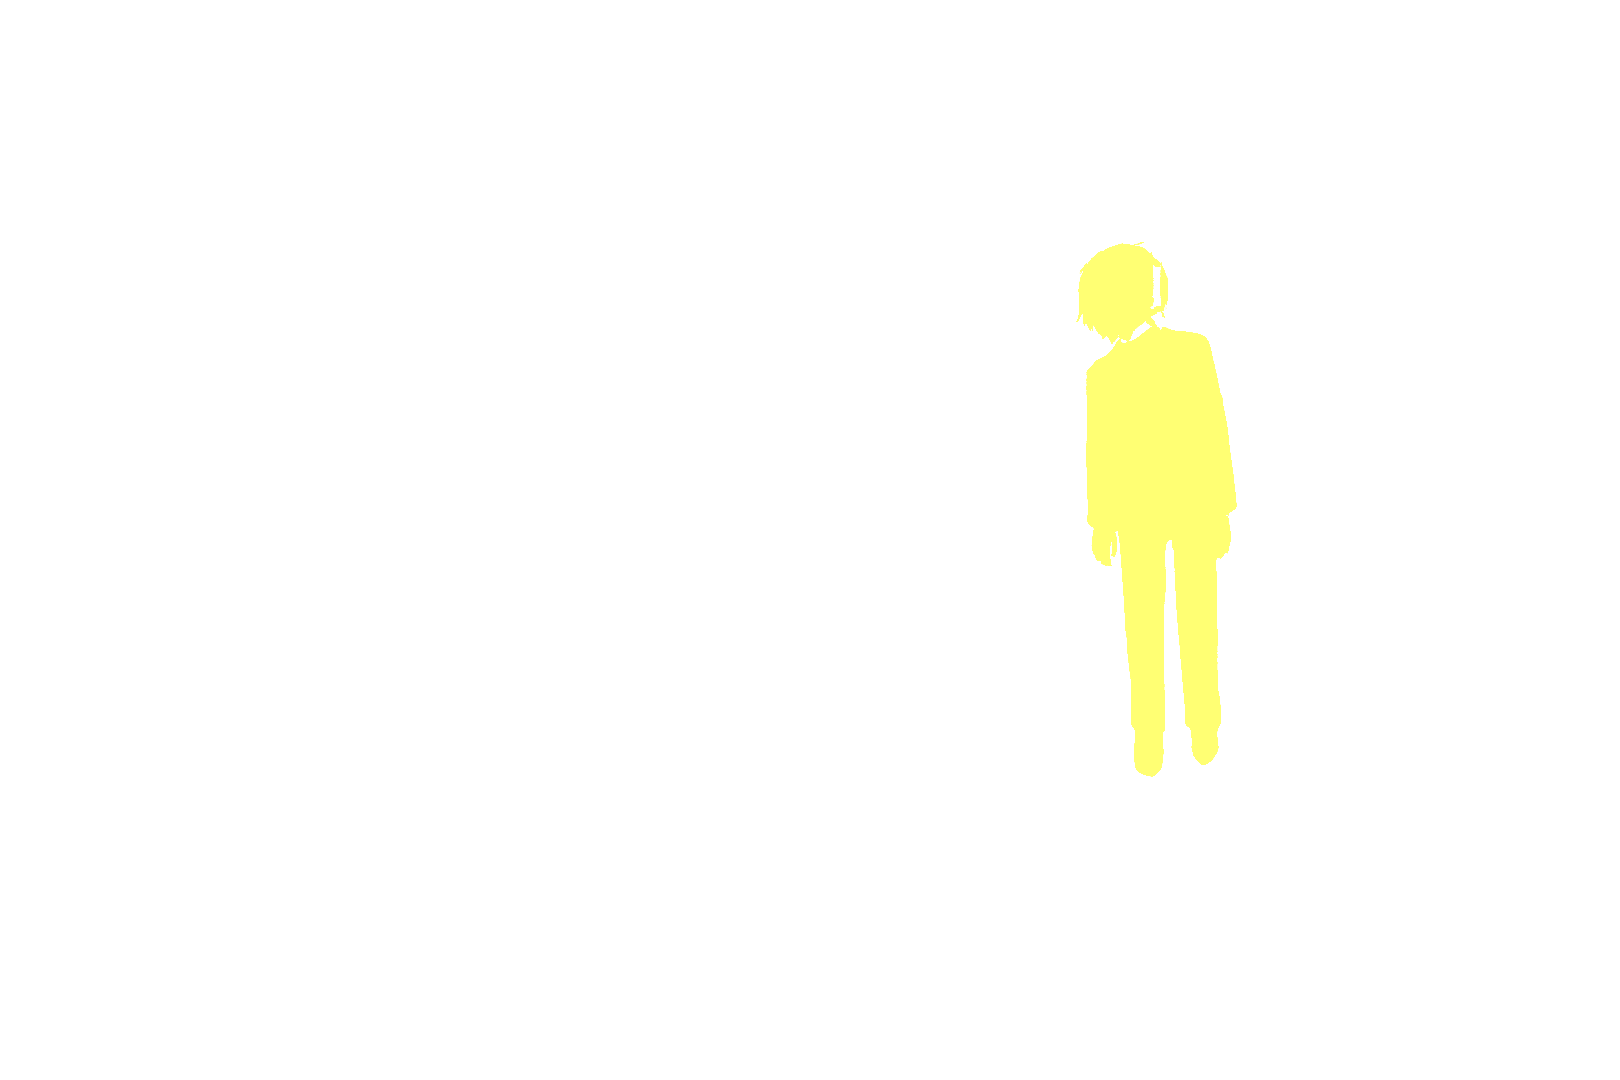
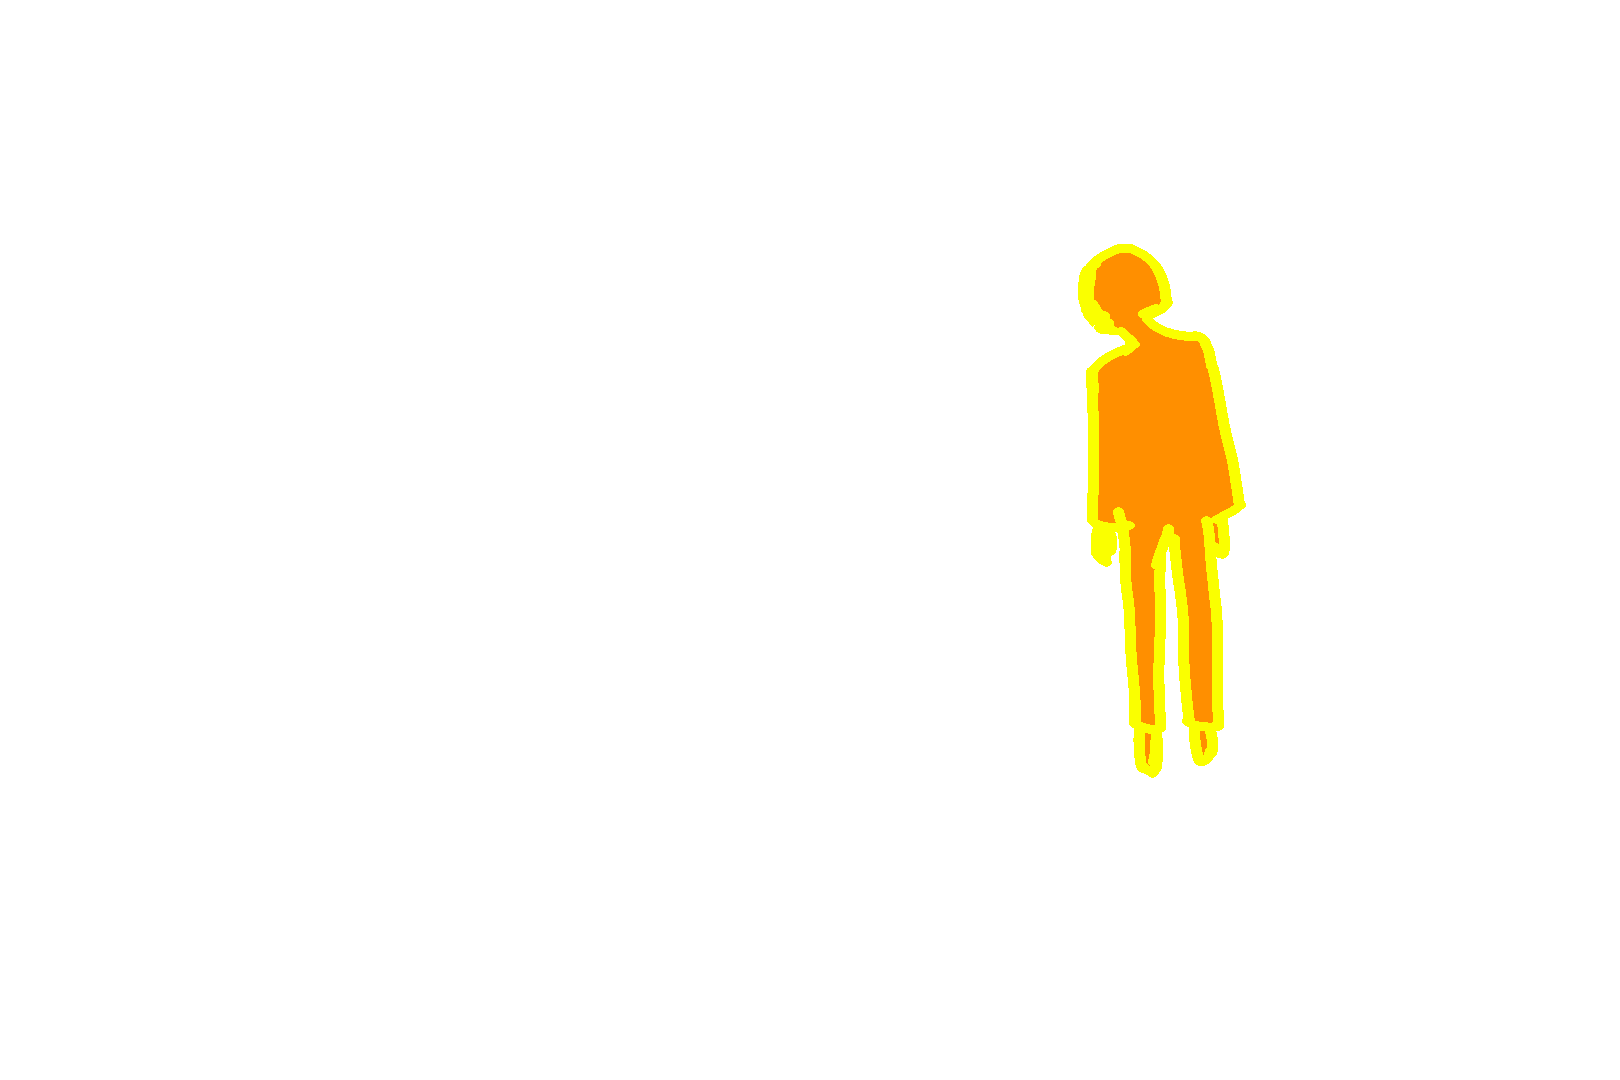
rework title and game over screen

Changed region(s): [[0.6481, 0.2139, 0.7716, 0.7333]]

diff --git a/levels/gameover$.js b/levels/gameover$.js
@@ -7,17 +7,20 @@ var s2 = new LevelObject(new StaticSprite("assets/screens/gameover_layer2.png", 
 
 
 function adapt_sprite(s, depth) {
-  s.visual_element.container.style.position = "fixed";
   s.visual_element.container.style.top = "0px";
-  s.visual_element.container.style.left =  "0px";
+  var r = Math.floor(- 500 + 500 * SCREEN.width()/1620);
+  s.visual_element.container.style.right = r;
+  s.visual_element.html_canvas.style.right = r;
   s.visual_element.container.style.height = "100%";
   s.visual_element.html_canvas.style.height = "100%";
+  s.visual_element.html_canvas.style.position = "fixed";
   s.visual_element.adjust_depth(depth);
 
   s.visual_element.draw = function (){
     s.visual_element.tint();
   }
 }
+
 
 // We wait so that we're sure the sprite has been drawn :(
 setTimeout(function(){
@@ -39,8 +42,14 @@ var flavortext = RANDOM.pick(
   "This is not how it's supposed to be.",
   "There's another way.",
   "Your quest goes on."]);
-new CenteredTextMenu("<i>"+flavortext+"</i><br />Reap the fruits of your misfortune in the Martyrdom menu.", options);
+var te = new CenteredTextMenu("<i>"+flavortext+"</i><br />Reap the fruits of your misfortune in the Martyrdom menu.", options);
 
+if(!SCREEN.is_mobile()){
+  te.place_at(100,100);
+} else {
+  te.place_at(undefined,SCREEN.height() - 475);
+}
+FOG.stop();
 
 STATS.record.death();
 MARTYRDOM.death();
